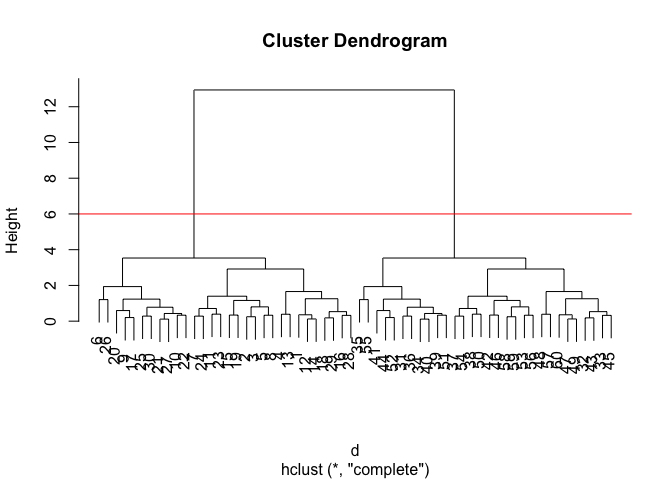
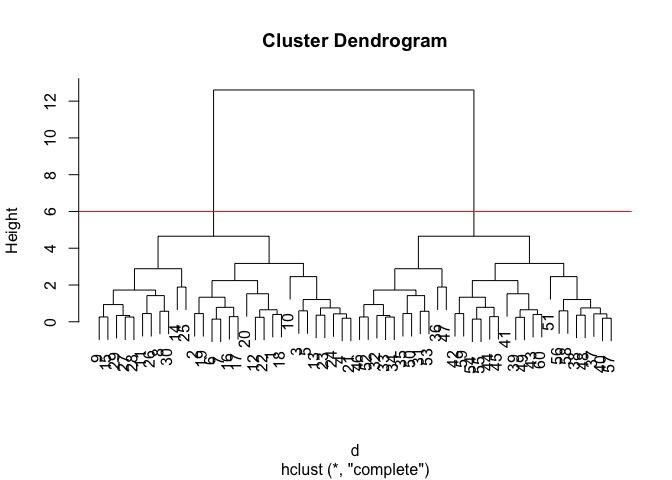
used head() to make md smaller

diff --git a/class08/class08.md b/class08/class08.md
@@ -29,16 +29,16 @@ km
     ## 
     ## Cluster means:
     ##           x         y
-    ## 1  3.373343 -2.938490
-    ## 2 -2.938490  3.373343
+    ## 1  3.340508 -2.881680
+    ## 2 -2.881680  3.340508
     ## 
     ## Clustering vector:
     ##  [1] 2 2 2 2 2 2 2 2 2 2 2 2 2 2 2 2 2 2 2 2 2 2 2 2 2 2 2 2 2 2 1 1 1 1 1
     ## [36] 1 1 1 1 1 1 1 1 1 1 1 1 1 1 1 1 1 1 1 1 1 1 1 1 1
     ## 
     ## Within cluster sum of squares by cluster:
-    ## [1] 36.8642 36.8642
-    ##  (between_SS / total_SS =  94.2 %)
+    ## [1] 47.60796 47.60796
+    ##  (between_SS / total_SS =  92.4 %)
     ## 
     ## Available components:
     ## 
@@ -85,8 +85,8 @@ km$centers
 ```
 
     ##           x         y
-    ## 1  3.373343 -2.938490
-    ## 2 -2.938490  3.373343
+    ## 1  3.340508 -2.881680
+    ## 2 -2.881680  3.340508
 
 Plot x colored by the kmeans cluster assignment and add cluster centers as blue points
 
@@ -142,8 +142,8 @@ gp3 <- cutree(hc, k=3)
 gp3
 ```
 
-    ##  [1] 1 1 1 1 1 1 1 1 1 1 1 1 1 1 1 1 1 1 1 1 1 1 1 1 1 1 1 1 1 1 2 3 3 2 2
-    ## [36] 2 3 3 2 2 2 3 3 2 3 3 3 3 3 3 2 2 3 3 2 3 3 3 3 3
+    ##  [1] 1 1 1 1 1 1 1 1 1 1 1 1 1 1 1 1 1 1 1 1 1 1 1 1 1 1 1 1 1 1 2 2 2 2 2
+    ## [36] 2 3 3 3 3 3 3 3 3 3 2 2 3 3 2 3 2 2 3 3 3 3 3 3 3
 
 ``` r
 table(gp3)
@@ -224,11 +224,11 @@ cutree2 <- cutree(hclust, k=2)
 cutree2
 ```
 
-    ##   [1] 1 1 1 1 1 1 1 1 1 1 1 1 1 1 1 1 1 1 1 1 1 1 1 1 1 1 1 1 1 1 1 1 1 2 1
-    ##  [36] 1 1 1 1 1 1 1 1 1 1 1 1 1 1 1 2 2 2 2 2 2 1 2 2 2 2 2 2 2 2 2 2 2 2 2
-    ##  [71] 2 2 2 2 2 2 2 2 2 2 2 2 2 2 2 2 2 2 2 2 2 2 2 2 2 2 2 2 2 2 2 2 1 2 2
-    ## [106] 2 2 1 2 2 1 2 2 1 2 2 2 1 2 2 2 1 2 2 1 2 2 2 2 2 2 2 2 2 2 2 2 2 2 2
-    ## [141] 2 2 2 1 2 2 2 1 2 2
+    ##   [1] 1 1 2 2 2 2 2 2 2 2 2 1 2 1 1 2 2 2 2 2 2 2 2 2 2 2 2 1 1 2 2 2 1 2 1
+    ##  [36] 1 2 2 1 1 2 1 2 1 2 2 2 2 2 2 1 1 1 1 1 1 1 1 1 1 1 1 1 1 1 1 1 1 1 1
+    ##  [71] 1 1 1 1 1 1 1 1 1 1 1 1 1 1 1 1 1 1 1 1 1 1 1 1 1 1 1 1 1 1 1 1 1 1 1
+    ## [106] 1 1 1 1 1 1 1 1 1 1 1 1 1 1 1 1 1 1 1 1 1 1 1 1 1 1 1 1 1 1 1 1 1 1 1
+    ## [141] 1 1 1 1 1 1 1 1 1 1
 
 ``` r
 table2 <- table(cutree2)
@@ -236,8 +236,8 @@ table2
 ```
 
     ## cutree2
-    ##  1  2 
-    ## 59 91
+    ##   1   2 
+    ## 114  36
 
 ``` r
 #For 3 clusters
@@ -245,11 +245,11 @@ cutree3 <- cutree(hclust, k=3)
 cutree3
 ```
 
-    ##   [1] 1 1 1 1 1 1 1 1 1 1 1 1 1 1 1 1 1 1 1 1 1 1 1 1 1 1 1 1 1 1 1 1 1 2 1
-    ##  [36] 1 1 1 1 1 1 1 1 1 1 1 1 1 1 1 3 3 3 3 3 2 1 3 2 3 3 2 2 3 3 3 3 3 3 3
-    ##  [71] 3 3 3 3 2 3 3 3 3 3 3 3 2 3 3 3 3 3 3 3 3 2 3 2 3 3 3 2 3 3 2 2 1 2 2
-    ## [106] 2 2 1 2 2 1 2 2 1 2 2 2 1 2 2 2 1 2 2 1 2 2 2 2 2 2 2 2 2 2 2 2 2 2 2
-    ## [141] 3 2 2 1 2 2 2 1 2 2
+    ##   [1] 1 1 2 2 2 2 2 2 2 2 2 1 2 1 1 2 2 2 2 2 2 2 2 2 2 2 2 1 1 2 2 2 1 2 1
+    ##  [36] 1 2 2 1 1 2 1 2 1 2 2 2 2 2 2 3 3 3 3 3 3 3 3 3 1 1 3 3 1 1 1 1 3 3 3
+    ##  [71] 3 3 3 3 1 3 3 1 1 1 3 1 1 3 1 1 1 3 3 3 3 1 1 1 3 3 3 1 3 3 1 1 1 1 1
+    ## [106] 1 1 1 1 1 1 1 1 1 1 1 1 1 1 1 1 1 1 1 1 1 1 1 1 1 1 1 1 3 1 1 1 3 1 1
+    ## [141] 1 1 1 1 1 1 1 1 1 1
 
 ``` r
 table3 <- table(cutree3)
@@ -258,7 +258,7 @@ table3
 
     ## cutree3
     ##  1  2  3 
-    ## 59 50 41
+    ## 81 36 33
 
 ``` r
 table(cutree2, cutree3)
@@ -266,8 +266,8 @@ table(cutree2, cutree3)
 
     ##        cutree3
     ## cutree2  1  2  3
-    ##       1 59  0  0
-    ##       2  0 50 41
+    ##       1 81  0 33
+    ##       2  0 36  0
 
 Q. How does this compare to your known 'col' groups?
 
@@ -285,112 +285,6 @@ Let's get some RNASeq data to play with
 ``` r
 mydata <- read.csv("https://tinyurl.com/expression-CSV",
                   row.names=1)
-mydata
-```
-
-    ##          wt1 wt2  wt3  wt4  wt5 ko1  ko2  ko3  ko4  ko5
-    ## gene1    439 458  408  429  420  90   88   86   90   93
-    ## gene2    219 200  204  210  187 427  423  434  433  426
-    ## gene3   1006 989 1030 1017  973 252  237  238  226  210
-    ## gene4    783 792  829  856  760 849  856  835  885  894
-    ## gene5    181 249  204  244  225 277  305  272  270  279
-    ## gene6    460 502  491  491  493 612  594  577  618  638
-    ## gene7     27  30   37   29   34 304  304  285  311  285
-    ## gene8    175 182  184  166  180 255  291  305  271  269
-    ## gene9    658 669  653  633  657 628  627  603  635  620
-    ## gene10   121 116  134  117  133 931  941  990  982  934
-    ## gene11   337 337  330  322  313 100   95   94  101   79
-    ## gene12   214 194  213  192  207  97   91   89  124   97
-    ## gene13   789 738  807  768  820 293  308  312  303  325
-    ## gene14   458 490  493  446  496 694  682  679  702  719
-    ## gene15   551 555  527  552  503 712  742  718  808  739
-    ## gene16   390 400  403  402  401 755  765  730  713  740
-    ## gene17   900 970  905  850  834 353  380  380  385  386
-    ## gene18   951 991  991  983  984 217  195  195  196  197
-    ## gene19   436 414  388  418  410 162  169  143  151  130
-    ## gene20   244 266  228  223  240 540  536  577  538  513
-    ## gene21   119  87   87   88   93 914  906  914  913  921
-    ## gene22   156 170  150  167  155 346  372  393  416  384
-    ## gene23    89  97   96   97   82 788  786  750  822  785
-    ## gene24   570 567  563  587  563 424  481  489  456  465
-    ## gene25   788 796  766  778  825 456  403  446  447  442
-    ## gene26  1007 972  977 1003 1027 945  859  933  844  925
-    ## gene27   937 876  901  958  957 414  405  383  437  394
-    ## gene28   224 232  231  238  226 850  902  907  842  817
-    ## gene29   809 869  815  788  781 482  484  518  498  491
-    ## gene30   624 598  587  552  592 956  985  940  963  982
-    ## gene31   218 259  213  204  213  69   86   59   65   46
-    ## gene32   906 798  828  874  890 541  626  576  607  586
-    ## gene33   262 291  258  271  279 534  566  570  565  563
-    ## gene34   155 172  173  173  192 643  639  713  706  676
-    ## gene35   100 104   94  114   90 212  228  233  229  258
-    ## gene36   117 147  120  147  145 353  347  371  335  357
-    ## gene37   286 262  260  270  293 360  375  361  348  374
-    ## gene38   321 353  334  340  316 642  575  588  595  665
-    ## gene39   388 372  345  373  359  50   45   39   44   35
-    ## gene40   606 576  558  581  574 415  406  423  455  412
-    ## gene41   379 377  362  346  354 991 1010 1020  976 1036
-    ## gene42   471 492  473  470  471 401  401  426  425  418
-    ## gene43   592 615  602  602  655 514  554  501  511  553
-    ## gene44   755 733  775  687  776 255  245  251  249  252
-    ## gene45    35  40   28   25   32 947  988  994  989  971
-    ## gene46   758 734  704  761  672 567  575  596  607  611
-    ## gene47    24  25   12   13   22 324  293  292  303  295
-    ## gene48   100 113  136  117  103 912  940  901  950  868
-    ## gene49   809 825  833  800  776 538  524  487  527  507
-    ## gene50   955 994  994  975  973 175  158  191  218  183
-    ## gene51   453 419  443  459  469 174  134  166  148  154
-    ## gene52   327 320  324  321  318 489  470  495  451  457
-    ## gene53   657 669  631  701  647 246  276  255  266  287
-    ## gene54   678 638  676  683  671 259  247  238  214  235
-    ## gene55   304 325  312  327  320 819  802  773  790  820
-    ## gene56   659 687  659  667  639 109  102  105  119   96
-    ## gene57   673 668  694  699  726  18   14   19   18   14
-    ## gene58   785 772  817  766  784 467  474  460  461  481
-    ## gene59   501 513  462  484  504  37   64   71   58   50
-    ## gene60   232 228  193  247  231 997  983  997  990 1011
-    ## gene61   928 936 1015  971  964 428  457  447  434  431
-    ## gene62   159 169  163  151  166 869  975  955  929  948
-    ## gene63   336 344  372  389  357 664  575  577  625  630
-    ## gene64   968 888  907  914  883 886  855  844  848  862
-    ## gene65   339 335  373  338  328 275  290  270  303  280
-    ## gene66    35  32   45   37   38 765  746  756  758  761
-    ## gene67    27  28   25   35   27 200  194  189  181  173
-    ## gene68    80  69   87   87   81 693  693  677  683  688
-    ## gene69   744 685  733  693  746 745  680  780  791  792
-    ## gene70   766 739  751  720  738 645  603  610  598  612
-    ## gene71   672 736  672  715  693 839  872  909  811  803
-    ## gene72   526 553  534  511  529 922  819  878  832  853
-    ## gene73   627 650  664  622  606 805  836  836  828  800
-    ## gene74   468 466  477  469  494 703  661  669  632  640
-    ## gene75   986 945 1006 1020 1024 359  358  346  356  345
-    ## gene76   348 333  344  321  296 770  773  750  769  774
-    ## gene77   719 714  734  693  682 620  567  582  614  546
-    ## gene78   883 899  868  873  882 803  765  767  783  749
-    ## gene79   837 883  864  807  854 210  239  234  258  220
-    ## gene80   666 657  719  656  638 549  588  586  571  583
-    ## gene81   804 735  771  763  813 613  587  591  563  613
-    ## gene82   476 494  521  494  482 183  184  156  173  161
-    ## gene83   438 430  477  457  481 466  525  518  474  478
-    ## gene84   938 934  976  965  960 904 1011  949  947  934
-    ## gene85    29  29   30   19   21 618  589  618  563  574
-    ## gene86   810 830  760  796  807 486  542  507  471  543
-    ## gene87   575 579  567  565  576 352  321  296  332  311
-    ## gene88   451 471  494  447  470 540  583  572  551  591
-    ## gene89   174 170  205  175  179 298  290  319  313  264
-    ## gene90   158 122  138  159  128 863  896  869  841  873
-    ## gene91   371 367  369  339  360 103   85   83   94   70
-    ## gene92   853 798  866  843  823 934 1007  936  918 1005
-    ## gene93   208 214  200  196  206 409  408  403  368  380
-    ## gene94   555 584  574  599  581 292  341  335  324  299
-    ## gene95   527 573  548  548  552 686  718  705  704  677
-    ## gene96   589 607  579  536  583 497  479  479  467  504
-    ## gene97   396 384  382  399  401 460  442  466  452  457
-    ## gene98    33  27   39   42   33 977 1031 1033 1003  974
-    ## gene99   321 343  349  367  343 949  947  982 1021 1010
-    ## gene100   25  34   34   36   32 661  685  678  655  693
-
-``` r
 head(mydata)
 ```
 
@@ -530,14 +424,14 @@ t(mydata)
 
 ``` r
 pca <- prcomp(t(mydata), scale = TRUE)
-pca
+head(pca)
 ```
 
-    ## Standard deviations (1, .., p=10):
+    ## $sdev
     ##  [1] 9.623734e+00 1.519849e+00 1.057866e+00 1.052033e+00 8.806163e-01
     ##  [6] 8.254517e-01 8.011116e-01 6.206451e-01 6.034223e-01 3.348364e-15
     ## 
-    ## Rotation (n x k) = (100 x 10):
+    ## $rotation
     ##                  PC1           PC2           PC3           PC4
     ## gene1   -0.103666005  0.0041998528  1.681018e-02 -0.0400873337
     ## gene2    0.103514749  0.0262608225  2.640622e-02  0.0305921681
@@ -841,6 +735,88 @@ pca
     ## gene98  -0.008692987 -0.0538474549
     ## gene99  -0.021081692 -0.0735156379
     ## gene100  0.022933185 -0.0410250614
+    ## 
+    ## $center
+    ##   gene1   gene2   gene3   gene4   gene5   gene6   gene7   gene8   gene9 
+    ##   260.1   316.3   617.8   833.9   250.6   547.6   164.6   227.8   638.3 
+    ##  gene10  gene11  gene12  gene13  gene14  gene15  gene16  gene17  gene18 
+    ##   539.9   210.8   151.8   546.3   585.9   640.7   569.9   634.3   590.0 
+    ##  gene19  gene20  gene21  gene22  gene23  gene24  gene25  gene26  gene27 
+    ##   282.1   390.5   504.2   270.9   439.2   516.5   614.7   949.2   666.2 
+    ##  gene28  gene29  gene30  gene31  gene32  gene33  gene34  gene35  gene36 
+    ##   546.9   653.5   777.9   143.2   723.2   415.9   424.2   166.2   243.9 
+    ##  gene37  gene38  gene39  gene40  gene41  gene42  gene43  gene44  gene45 
+    ##   318.9   472.9   205.0   500.6   685.1   444.8   569.9   497.8   504.9 
+    ##  gene46  gene47  gene48  gene49  gene50  gene51  gene52  gene53  gene54 
+    ##   658.5   160.3   514.0   662.6   581.6   301.9   397.2   463.5   453.9 
+    ##  gene55  gene56  gene57  gene58  gene59  gene60  gene61  gene62  gene63 
+    ##   559.2   384.2   354.3   626.7   274.4   610.9   701.1   548.4   486.9 
+    ##  gene64  gene65  gene66  gene67  gene68  gene69  gene70  gene71  gene72 
+    ##   885.5   313.1   397.3   107.9   383.8   738.9   678.2   772.2   695.7 
+    ##  gene73  gene74  gene75  gene76  gene77  gene78  gene79  gene80  gene81 
+    ##   727.4   567.9   674.5   547.8   647.1   827.2   540.6   621.3   685.3 
+    ##  gene82  gene83  gene84  gene85  gene86  gene87  gene88  gene89  gene90 
+    ##   332.4   474.4   951.8   309.0   655.2   447.4   517.0   238.7   504.7 
+    ##  gene91  gene92  gene93  gene94  gene95  gene96  gene97  gene98  gene99 
+    ##   224.1   898.3   299.2   448.4   623.8   532.0   423.9   519.2   663.2 
+    ## gene100 
+    ##   353.3 
+    ## 
+    ## $scale
+    ##     gene1     gene2     gene3     gene4     gene5     gene6     gene7 
+    ## 180.38813 118.68169 406.44797  43.79358  38.02689  66.19366 140.65972 
+    ##     gene8     gene9    gene10    gene11    gene12    gene13    gene14 
+    ##  54.93997  20.41269 438.62575 123.66065  56.25102 252.03441 116.72518 
+    ##    gene15    gene16    gene17    gene18    gene19    gene20    gene21 
+    ## 112.60556 180.48481 273.91120 411.29497 139.04871 159.56207 431.65748 
+    ##    gene22    gene23    gene24    gene25    gene26    gene27    gene28 
+    ## 118.71670 366.19084  59.24760 186.51723  61.14609 275.04537 334.87824 
+    ##    gene29    gene30    gene31    gene32    gene33    gene34    gene35 
+    ## 169.35777 198.57462  84.24541 148.02237 152.04126 265.92096  70.51052 
+    ##    gene36    gene37    gene38    gene39    gene40    gene41    gene42 
+    ## 115.37037  48.69736 150.22239 171.56793  84.43827 339.39143  33.88149 
+    ##    gene43    gene44    gene45    gene46    gene47    gene48    gene49 
+    ##  51.32132 261.95665 498.66142  76.38972 149.05633 422.51522 155.18820 
+    ##    gene50    gene51    gene52    gene53    gene54    gene55    gene56 
+    ## 418.45594 155.50380  80.33790 209.20498 227.53190 255.09510 293.32038 
+    ##    gene57    gene58    gene59    gene60    gene61    gene62    gene63 
+    ## 356.30544 167.27492 230.77223 405.78688 276.92536 408.64252 137.29324 
+    ##    gene64    gene65    gene66    gene67    gene68    gene69    gene70 
+    ##  37.57141  34.35258 379.41125  84.13937 319.46059  41.96943  70.12021 
+    ##    gene71    gene72    gene73    gene74    gene75    gene76    gene77 
+    ##  85.97519 176.44014 100.51998 100.17590 339.81245 231.78141  69.30360 
+    ##    gene78    gene79    gene80    gene81    gene82    gene83    gene84 
+    ##  58.86104 325.87939  53.62431 100.11998 170.30900  30.17431  28.81281 
+    ##    gene85    gene86    gene87    gene88    gene89    gene90    gene91 
+    ## 299.21898 155.73967 132.57887  56.42301  63.61350 383.76673 145.01452 
+    ##    gene92    gene93    gene94    gene95    gene96    gene97    gene98 
+    ##  73.15744 100.37906 138.41981  79.71867  53.28331  34.25217 510.96527 
+    ##    gene99   gene100 
+    ## 336.77582 338.64962 
+    ## 
+    ## $x
+    ##           PC1        PC2        PC3        PC4        PC5        PC6
+    ## wt1 -9.697374  1.5233313 -0.2753567  0.7322391 -0.6749398 -1.1823860
+    ## wt2 -9.138950  0.3748504  1.0867958 -1.9461655  0.7571209  0.4369228
+    ## wt3 -9.054263 -0.9855163  0.4152966  1.4166028  0.5835918 -0.6937236
+    ## wt4 -8.731483 -0.7468371  0.5875748  0.2268129 -1.5404775  1.2723618
+    ## wt5 -9.006312 -0.2945307 -1.8498101 -0.4303812  0.8666124  0.2496025
+    ## ko1  8.846999  2.2345475 -0.1462750 -1.1544333 -0.6947862 -0.7128021
+    ## ko2  9.213885 -3.2607503  0.2287292 -0.7658122 -0.4922849 -0.9170241
+    ## ko3  9.458412 -0.2636283 -1.5778183  0.2433549  0.3654124  0.5837724
+    ## ko4  8.883412  0.6339701  1.5205064  0.7760158  1.2158376  0.1446094
+    ## ko5  9.225673  0.7845635  0.0103574  0.9017667 -0.3860869  0.8186668
+    ##             PC7         PC8         PC9         PC10
+    ## wt1  0.24446614  1.03519396  0.07010231 3.691492e-15
+    ## wt2  0.03275370  0.26622249  0.72780448 3.080869e-15
+    ## wt3  0.03578383 -1.05851494  0.52979799 2.595146e-15
+    ## wt4  0.52795595 -0.20995085 -0.50325679 3.122502e-15
+    ## wt5 -0.83227047 -0.05891489 -0.81258430 3.302913e-15
+    ## ko1  0.07864392 -0.94652648 -0.24613776 3.351486e-15
+    ## ko2 -0.30945771  0.33231138 -0.08786782 2.629841e-15
+    ## ko3  1.43723425  0.14495188  0.56617746 3.094747e-15
+    ## ko4  0.35073859  0.30381920 -0.87353886 2.983724e-15
+    ## ko5 -1.56584821  0.19140827  0.62950330 3.233525e-15
 
 ``` r
 summary(pca)
